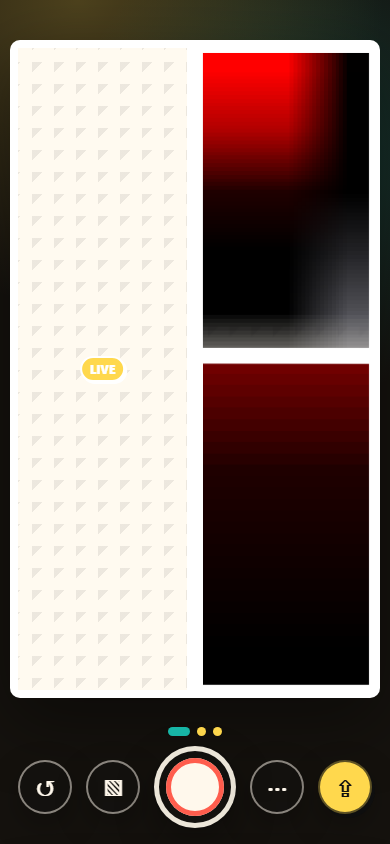
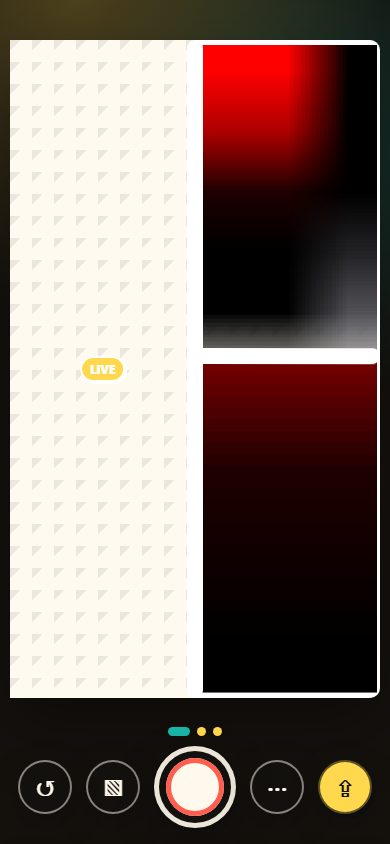
Fix custom layout aspect handling

diff --git a/src/main.tsx b/src/main.tsx
@@ -8,7 +8,7 @@ type PanelFit = 'cover' | 'contain'
 type StickerKind = 'speech' | 'thought' | 'burst' | 'caption' | 'arrow' | 'star'
 type DrawerTab = 'layout' | 'create' | 'stickers' | 'style'
 type CustomLinePreset = 'diagonal' | 'vertical' | 'horizontal'
-type PageFormatId = '4:5' | '3:4' | '9:16' | '1:1'
+type PageFormatId = '4:5' | '3:4' | '9:16'
 
 type Panel = {
   id: string
@@ -25,7 +25,7 @@ type Layout = {
   panels: Panel[]
   custom?: boolean
   dividerThickness?: number
-  pageFormatId?: PageFormatId
+  dividers?: CustomLine[]
 }
 
 type Shot = {
@@ -199,7 +199,6 @@ const pageFormats: PageFormat[] = [
   { id: '4:5', label: 'Post', detail: 'Instagram portrait', width: 4, height: 5 },
   { id: '3:4', label: 'Tall', detail: 'Classic portrait', width: 3, height: 4 },
   { id: '9:16', label: 'Story', detail: 'Stories/Reels', width: 9, height: 16 },
-  { id: '1:1', label: 'Square', detail: 'Grid post', width: 1, height: 1 },
 ]
 
 const defaultPageFormat = pageFormats[0]
@@ -210,10 +209,6 @@ function getPageFormat(id: string | null) {
 
 function pageFormatCanvasAspect(format: PageFormat) {
   return format.height / format.width
-}
-
-function pageFormatForLayout(layout: Layout, fallback: PageFormat) {
-  return pageFormats.find((format) => format.id === layout.pageFormatId) ?? fallback
 }
 
 function layoutDividerThickness(layout: Layout) {
@@ -502,7 +497,7 @@ function App() {
         }
       }
 
-      setPageFormat(restoredLayout ? pageFormatForLayout(restoredLayout, storedPageFormat) : storedPageFormat)
+      setPageFormat(storedPageFormat)
       const restoredDividerThickness = restoredLayout ? layoutDividerThickness(restoredLayout) : null
       if (restoredDividerThickness !== null) {
         setSettings((current) => ({ ...current, gutters: restoredDividerThickness }))
@@ -879,9 +874,6 @@ function App() {
     const restoredCount = Object.keys(nextShots).length
     const nextDividerThickness = layoutDividerThickness(nextLayout)
     setLayout(nextLayout)
-    if (nextLayout.pageFormatId) {
-      setPageFormat(pageFormatForLayout(nextLayout, pageFormat))
-    }
     if (nextDividerThickness !== null) {
       setSettings((current) => ({ ...current, gutters: nextDividerThickness }))
     }
@@ -1009,7 +1001,7 @@ function App() {
       name: draftName.trim() || `Custom ${customLayouts.length + 1}`,
       custom: true,
       dividerThickness: draftThickness,
-      pageFormatId: pageFormat.id,
+      dividers: draftLines.map((line) => ({ ...line })),
       panels,
     }
     setCustomLayouts((current) => [...current, customLayout])
@@ -1413,7 +1405,7 @@ function App() {
             <button
               key={panel.id}
               className={`live-panel ${panel.id === activePanelId ? 'is-live' : ''} ${shots[panel.id] ? 'is-shot' : ''}`}
-              style={panelStyle(panel, settings.gutters, pageFormat)}
+              style={panelStyle(panel)}
               type="button"
               data-panel-id={panel.id}
               onClick={() => selectPanel(panel.id)}
@@ -1434,6 +1426,15 @@ function App() {
               )}
               {panel.id === activePanelId && !shots[panel.id] && <span className="panel-chip">LIVE</span>}
             </button>
+          ))}
+
+          {layout.dividers?.map((divider, index) => (
+            <span
+              key={`${divider.id}-${index}`}
+              className="live-divider-gap"
+              style={lineSegmentStyle(divider, creatorCanvasAspect)}
+              aria-hidden="true"
+            />
           ))}
 
           {stickers.map((sticker) => (
@@ -2480,6 +2481,10 @@ async function renderToPng(
     drawPanel(context, panel, image, shot, width, panelHeight, outer, gutter, settings)
   }
 
+  for (const divider of layout.dividers ?? []) {
+    drawDividerGap(context, divider, width, panelHeight, outer, gutter, settings.background)
+  }
+
   for (const sticker of stickers) {
     drawSticker(context, sticker, width, panelHeight)
   }
@@ -2525,7 +2530,7 @@ function drawPanel(
 
   context.save()
   if (panel.points) {
-    drawPanelPolygon(context, panel, width, panelHeight, outer, gutter)
+    drawPanelPolygon(context, panel, width, panelHeight, outer)
   } else {
     drawRoundedRect(context, x, y, w, h, settings.radius * 3)
   }
@@ -2543,7 +2548,7 @@ function drawPanel(
     context.lineWidth = Math.max(2, settings.border * 2)
     context.strokeStyle = settings.borderColor
     if (panel.points) {
-      drawPanelPolygon(context, panel, width, panelHeight, outer, gutter)
+      drawPanelPolygon(context, panel, width, panelHeight, outer)
     } else {
       drawRoundedRect(context, x, y, w, h, settings.radius * 3)
     }
@@ -2557,19 +2562,44 @@ function drawPanelPolygon(
   width: number,
   panelHeight: number,
   outer: number,
-  gutter: number,
 ) {
   const points = panel.points ?? []
   const canvasPoints = points.map(([px, py]) => [
     outer + (px / 100) * (width - outer * 2),
     outer + (py / 100) * (panelHeight - outer * 2),
   ] as [number, number])
-  const insetPoints = insetPolygonPoints(canvasPoints, gutter / 2)
   context.beginPath()
-  insetPoints.forEach(([x, y], index) => {
+  canvasPoints.forEach(([x, y], index) => {
     index === 0 ? context.moveTo(x, y) : context.lineTo(x, y)
   })
   context.closePath()
+}
+
+function drawDividerGap(
+  context: CanvasRenderingContext2D,
+  line: CustomLine,
+  width: number,
+  panelHeight: number,
+  outer: number,
+  gutter: number,
+  color: string,
+) {
+  const innerWidth = width - outer * 2
+  const innerHeight = panelHeight - outer * 2
+  const x1 = outer + (line.x1 / 100) * innerWidth
+  const y1 = outer + (line.y1 / 100) * innerHeight
+  const x2 = outer + (line.x2 / 100) * innerWidth
+  const y2 = outer + (line.y2 / 100) * innerHeight
+
+  context.save()
+  context.strokeStyle = color
+  context.lineWidth = gutter
+  context.lineCap = 'round'
+  context.beginPath()
+  context.moveTo(x1, y1)
+  context.lineTo(x2, y2)
+  context.stroke()
+  context.restore()
 }
 
 function drawSticker(context: CanvasRenderingContext2D, sticker: Sticker, width: number, panelHeight: number) {
@@ -2611,14 +2641,14 @@ function drawSticker(context: CanvasRenderingContext2D, sticker: Sticker, width:
   context.restore()
 }
 
-function panelStyle(panel: Panel, gutter = 0, pageFormat = defaultPageFormat) {
+function panelStyle(panel: Panel) {
   const center = panelCentroid(panel)
   return {
     left: `${panel.x * 100}%`,
     top: `${panel.y * 100}%`,
     width: `${panel.w * 100}%`,
     height: `${panel.h * 100}%`,
-    clipPath: panel.points ? pointsToClipPath(panel.points, gutter / 2, pageFormatCanvasAspect(pageFormat)) : undefined,
+    clipPath: panel.points ? pointsToClipPath(panel.points) : undefined,
     '--chip-x': `${center.x * 100}%`,
     '--chip-y': `${center.y * 100}%`,
   }
@@ -2661,67 +2691,8 @@ function panelPhotoFrameSize(panel: Panel, stripRect: DOMRect) {
   }
 }
 
-function pointsToClipPath(points: Array<[number, number]>, insetPx = 0, yScale = 1) {
-  const offsets = polygonInsetOffsets(points, insetPx, yScale)
-  return `polygon(${points.map(([x, y], index) => `${cssLengthPercent(x, offsets[index][0])} ${cssLengthPercent(y, offsets[index][1])}`).join(', ')})`
-}
-
-function cssLengthPercent(percent: number, pxOffset: number) {
-  if (Math.abs(pxOffset) < 0.01) {
-    return `${percent}%`
-  }
-
-  const sign = pxOffset >= 0 ? '+' : '-'
-  return `calc(${percent}% ${sign} ${Math.abs(pxOffset).toFixed(2)}px)`
-}
-
-function insetPolygonPoints(points: Array<[number, number]>, insetPx: number) {
-  const offsets = polygonInsetOffsets(points, insetPx)
-  return points.map(([x, y], index) => [x + offsets[index][0], y + offsets[index][1]] as [number, number])
-}
-
-function polygonInsetOffsets(points: Array<[number, number]>, insetPx: number, yScale = 1) {
-  if (insetPx <= 0 || points.length < 3) {
-    return points.map(() => [0, 0] as [number, number])
-  }
-
-  const orientation = polygonArea(points) >= 0 ? 1 : -1
-  return points.map((point, index) => {
-    const previous = points[(index + points.length - 1) % points.length]
-    const next = points[(index + 1) % points.length]
-    const previousNormal = inwardEdgeNormal(previous, point, orientation, yScale)
-    const nextNormal = inwardEdgeNormal(point, next, orientation, yScale)
-    const determinant = previousNormal[0] * nextNormal[1] - previousNormal[1] * nextNormal[0]
-
-    if (Math.abs(determinant) < 0.0001) {
-      const normalX = previousNormal[0] + nextNormal[0]
-      const normalY = previousNormal[1] + nextNormal[1]
-      const normalLength = Math.hypot(normalX, normalY)
-      const fallbackNormal = normalLength > 0.0001 ? [normalX / normalLength, normalY / normalLength] : previousNormal
-      return [fallbackNormal[0] * insetPx, fallbackNormal[1] * insetPx] as [number, number]
-    }
-
-    const offsetX = (insetPx * nextNormal[1] - previousNormal[1] * insetPx) / determinant
-    const offsetY = (previousNormal[0] * insetPx - insetPx * nextNormal[0]) / determinant
-    return limitInsetOffset([offsetX, offsetY], insetPx)
-  })
-}
-
-function inwardEdgeNormal(start: [number, number], end: [number, number], orientation: number, yScale: number) {
-  const dx = end[0] - start[0]
-  const dy = (end[1] - start[1]) * yScale
-  const length = Math.hypot(dx, dy) || 1
-  return orientation >= 0 ? ([-dy / length, dx / length] as [number, number]) : ([dy / length, -dx / length] as [number, number])
-}
-
-function limitInsetOffset(offset: [number, number], insetPx: number) {
-  const length = Math.hypot(offset[0], offset[1])
-  const limit = Math.max(1, insetPx) * 4
-  if (length <= limit) {
-    return offset
-  }
-
-  return [(offset[0] / length) * limit, (offset[1] / length) * limit] as [number, number]
+function pointsToClipPath(points: Array<[number, number]>) {
+  return `polygon(${points.map(([x, y]) => `${x}% ${y}%`).join(', ')})`
 }
 
 function panelBounds(panel: Panel) {

diff --git a/src/style.css b/src/style.css
@@ -297,6 +297,25 @@ select:focus-visible,
   will-change: left, top, width, height;
 }
 
+.live-divider-gap {
+  position: absolute;
+  z-index: 3;
+  transform-origin: 0 50%;
+  pointer-events: none;
+}
+
+.live-divider-gap::before {
+  content: "";
+  position: absolute;
+  left: 0;
+  top: 50%;
+  width: 100%;
+  height: var(--gutter);
+  border-radius: 999px;
+  background: var(--paper);
+  transform: translateY(-50%);
+}
+
 .live-frame {
   position: absolute;
   left: 0;